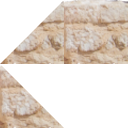
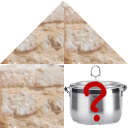
pot mystery boxes added and namespace crr

diff --git a/gamelib/gameview.py b/gamelib/gameview.py
@@ -2,13 +2,14 @@
 Main game view module to handle all the actions in the gameplay and display it.
 """
 
+from arcade.sprite_list import check_for_collision
+from gamelib.constants import *
+from gamelib import sprites
+import arcade
 import sys
 
 sys.path.append(".")
 
-import arcade
-from gamelib import sprites
-from gamelib.constants import *
 
 class Game(arcade.View):
 
@@ -24,8 +25,10 @@ class Game(arcade.View):
         self.character_cont_list = None
         self.block_list = None
         self.pot_sublist = None
+        self.pots_picked = set()
 
         self.maklowicz = None
+        self.maklowicz_head_collider = None
 
         # map
         self.lvl_map = None
@@ -37,22 +40,27 @@ class Game(arcade.View):
         self.block_list = arcade.SpriteList(use_spatial_hash=True)
 
         self.maklowicz = sprites.Maklowicz(2*TL, 6*TL)
-        self.character_cont_list.append(self.maklowicz)
+        self.maklowicz_head_collider = arcade.Sprite(
+            scale=CHARACTER_SCALING, center_x=self.maklowicz.center_x, center_y=self.maklowicz.center_y)
+        self.maklowicz_head_collider.texture = IMG_MAKLOWICZ['box'][0]
 
-        self.lvl_map = arcade.tilemap.read_tmx(TEST_MAP)
-        
+        self.character_cont_list.append(self.maklowicz)
+        self.character_cont_list.append(self.maklowicz_head_collider)
+
+        self.lvl_map = TEST_MAP
+
         self.block_list = arcade.tilemap.process_layer(map_object=self.lvl_map,
                                                        layer_name=TEST_BLOCK_LAYER,
                                                        scaling=MAP_SCALING,
                                                        use_spatial_hash=True)
 
-        self.pot_sublist = sprites.init_objects_from_map(sprites.Pot, self.block_list, self.lvl_map,\
-        "obj", True)
+        self.pot_sublist = sprites.init_objects_from_map(sprites.Pot, self.block_list, self.lvl_map,
+                                                         "obj", True)
 
         self.physics_engine = arcade.PhysicsEnginePlatformer(self.maklowicz,
                                                              self.block_list,
                                                              GRAVITY)
-        
+
         self.maklowicz.physics_engines.append(self.physics_engine)
 
     def on_key_press(self, key, modifiers):
@@ -78,20 +86,22 @@ class Game(arcade.View):
     def on_draw(self):
         arcade.start_render()
 
-        self.character_cont_list.draw()
+        self.maklowicz.draw()
         self.block_list.draw()
 
-        #self.maklowicz.draw_hit_box()
-        
-    
+        self.maklowicz_head_collider.draw_hit_box()
 
     def on_update(self, delta_time):
         self.maklowicz.update_animation(delta_time)
         self.physics_engine.update()
+        self.maklowicz_head_collider.position = (
+            self.maklowicz.center_x, self.maklowicz.center_y + MAKLOWICZ_HEAD_EXTENSION)
+        self.pots_picked.update(set(arcade.check_for_collision_with_list(
+            self.maklowicz_head_collider, self.pot_sublist)))
 
-        # for garek na liście kolidujących
-        #if garnek.active:
-        #    self.pot_sublist[0].pick_action()
+        for pot in self.pots_picked:
+            if pot.active:
+                pot.pick_action()
 
         # SCREEN SCROLLING
 
@@ -104,16 +114,19 @@ class Game(arcade.View):
         map_end_length = self.lvl_map.tile_size[0]*self.lvl_map.map_size[0]
 
         if self.maklowicz.center_x < left_boundary:
-            self.view_left = max(self.view_left - left_boundary + self.maklowicz.center_x, 0)
+            self.view_left = max(
+                self.view_left - left_boundary + self.maklowicz.center_x, 0)
             changed_flag = True
         if self.maklowicz.center_x > right_boundary:
-            self.view_left = min(self.view_left - right_boundary + self.maklowicz.center_x, map_end_length-WINDOW_WIDTH)
+            self.view_left = min(self.view_left - right_boundary +
+                                 self.maklowicz.center_x, map_end_length-WINDOW_WIDTH)
             changed_flag = True
         if self.maklowicz.top > top_boundary:
             self.view_bottom += self.maklowicz.top - top_boundary
             changed_flag = True
         if self.maklowicz.bottom < bottom_boundary:
-            self.view_bottom = max(self.view_bottom - bottom_boundary + self.maklowicz.bottom, 0)
+            self.view_bottom = max(
+                self.view_bottom - bottom_boundary + self.maklowicz.bottom, 0)
             changed_flag = True
 
         if changed_flag:

diff --git a/gamelib/sprites.py b/gamelib/sprites.py
@@ -17,7 +17,7 @@ def init_objects_from_map(object_class, sprite_list: list, map_object: TileMap,\
     object_sub_list = arcade.tilemap.process_layer(
         map_object=map_object, layer_name=layer_name, scaling=MAP_SCALING,
         use_spatial_hash=use_spatial_hash)
-    new_object_sub_list = []
+    new_object_sub_list = arcade.SpriteList()
     for obj in object_sub_list:
         new_object = object_class()
         new_object.center_x = obj.center_x
@@ -85,16 +85,16 @@ class Pot(arcade.Sprite):
     def pick_action(self):
         if not self.picked:
             self.change_y = POT_ACTION_SPEED
-            self.init_center_y = self.center_y*1
+            self.init_center_y = self.center_y+1
             self.picked = True
+            self.texture = IMG_POT['picked']
         
-        if self.center_y >= self.init_center_y + POT_ACTION_HEIGHT:
+        elif self.center_y >= self.init_center_y + POT_ACTION_HEIGHT:
             self.change_y = -POT_ACTION_SPEED
 
-        if self.center_y < self.init_center_y:
+        elif self.center_y < self.init_center_y:
             self.change_y = 0
             self.center_y = self.init_center_y
-            #self.texture = cos
             self.active = False
 
 

diff --git a/gamelib/constants.py b/gamelib/constants.py
@@ -14,9 +14,10 @@ MAKLOWICZ_SPEED = 5
 MAKLOWICZ_JUMP_SPEED = 20
 CAN_JUMP_DISTANCE = 20
 
-POT_ACTION_SPEED = 20
-POT_ACTION_HEIGHT = 40
-
+# object actions' properities
+POT_ACTION_SPEED = 15
+POT_ACTION_HEIGHT = 20
+MAKLOWICZ_HEAD_EXTENSION = 10
 
 # window properities
 WINDOW_WIDTH = 800
@@ -38,11 +39,16 @@ IMG_MAKLOWICZ = {
     'idle': arcade.load_texture_pair(f"{IMG_DIR}\maklowicz\maklowicz_idle.png"),
     'jump': arcade.load_texture_pair(f"{IMG_DIR}\maklowicz\maklowicz_jump.png"),
     'run1': arcade.load_texture_pair(f"{IMG_DIR}\maklowicz\maklowicz_run1.png"),
-    'run2': arcade.load_texture_pair(f"{IMG_DIR}\maklowicz\maklowicz_run2.png")}
+    'run2': arcade.load_texture_pair(f"{IMG_DIR}\maklowicz\maklowicz_run2.png"),
+    'box': arcade.load_texture_pair(f"{IMG_DIR}\maklowicz\BOX_maklowicz_head.png")}
+
+IMG_POT = {
+    'picked': arcade.load_texture(f"{IMG_DIR}\\blocks\pot_picked.png")}
+
 
 
 
 
 # $$$$$$$$$$$$$$$$$$$$$$$$$$$$$$$$$$$$$$$$$$$$$$
-TEST_MAP = "assets\maps\level_test.tmx"
+TEST_MAP = arcade.tilemap.read_tmx("assets\maps\level_test.tmx")
 TEST_BLOCK_LAYER = "layer"

diff --git a/SuperMaklowiczWorld.py b/SuperMaklowiczWorld.py
@@ -3,9 +3,9 @@
 Main file. Run the game.
 """
 
-from gamelib import run
+from gamelib import startapp
 
 if __name__ == "__main__":
-    run.run_game()
+    startapp.run_game()
 else:
     pass

diff --git a/gamelib/optionviews.py b/gamelib/optionviews.py
@@ -1,0 +1,3 @@
+"""
+Initial, pause and other additional view classes.
+"""
